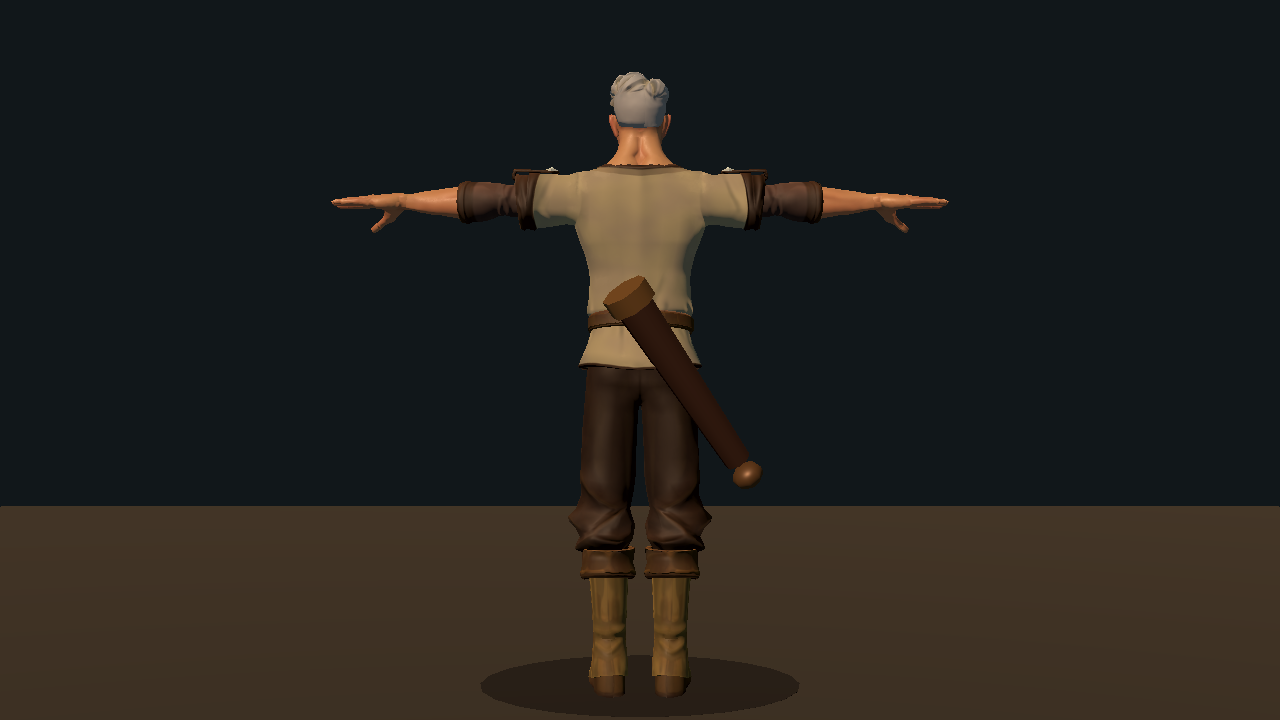
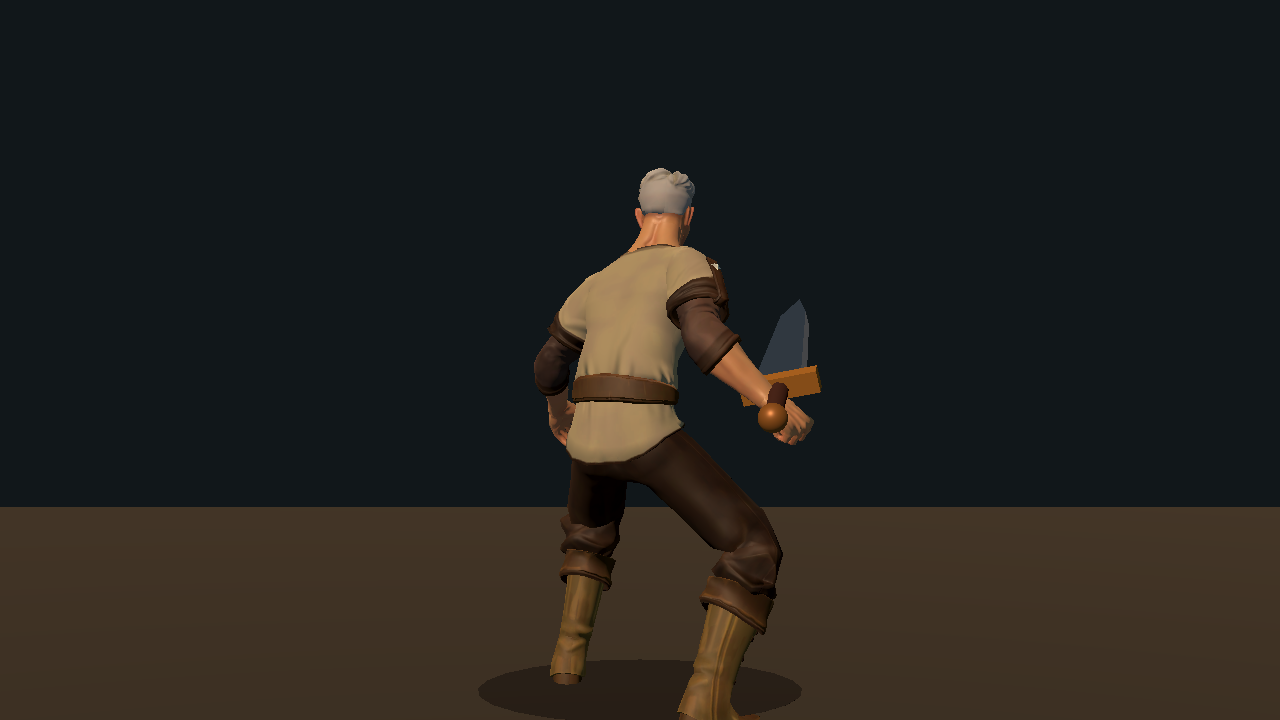
RECOVERY-004: stabilize dialogue animation presentation

Changed region(s): [[0.25, 0.0917, 0.75, 1.0]]

diff --git a/outputs/AshenOathTheRoadBetweenCrowns/RECOVERY_004_IMPLEMENTATION_STATUS.md b/outputs/AshenOathTheRoadBetweenCrowns/RECOVERY_004_IMPLEMENTATION_STATUS.md
@@ -1,5 +1,32 @@
 # RECOVERY-004 Implementation Status
 
+## Current Atomic Checkpoint - 2026-09-06
+
+- Current work: animation presentation and dialogue first-frame pose repair.
+- Completed: shared animation playback now samples the selected clip immediately
+  after `play()`, including newly spawned actors that may be paused before their
+  first idle callback. Dialogue staging applies the player's authored dialogue
+  pose before the scene pause and releases it when dialogue ends. The animation
+  evidence helper now samples manual players before capture and refreshes the
+  hand-attached sword pose for light and heavy attack frames.
+- Latest result: direct `tools/verify_anim_003.gd` passed. Fresh
+  `Capture_05_sister_anwen_dialogue_2026-09-06_013231.png` shows grounded Kael
+  and Sister Anwen without the first-frame T-pose. Fresh
+  `ANIM_001_05_Kael_Motion_Contact_Sheet.png` shows grounded idle/walk/action
+  poses and a visible sword during the attack sample. `git diff --check` passed.
+- Remaining blocker: the focused verifier still prints two null-material and
+  an ObjectDB shutdown diagnostic after its test tree is freed. These occur in
+  teardown after the pass marker and remain an unresolved lifecycle/release
+  blocker. The broader release blockers also remain: visual placeholder debt,
+  incomplete campaign proof, startup/target-hardware evidence, and no verified
+  export/deployment from this checkpoint.
+- Exact next action on resume: resolve the outstanding release-integrity and
+  lifecycle/performance blockers, beginning with the startup/resource path, and
+  rerun only the affected gates. Do not repeat this animation verifier unless
+  the animation driver, dialogue staging, or capture inputs change.
+- Checkpoint policy: current changes are preserved locally. No export, push,
+  merge, deploy, reset, revert, or new recovery ticket was started.
+
 ## Current Atomic Checkpoint - 2026-09-05
 
 - Current ticket: `QA-002` / traversal proof, following the completed
